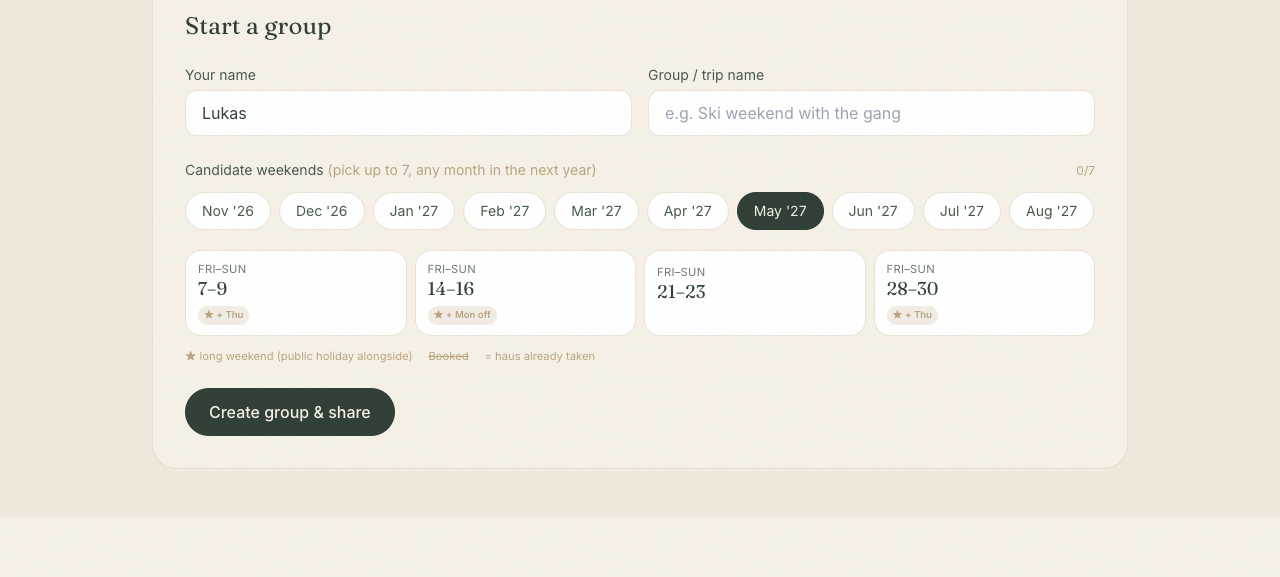
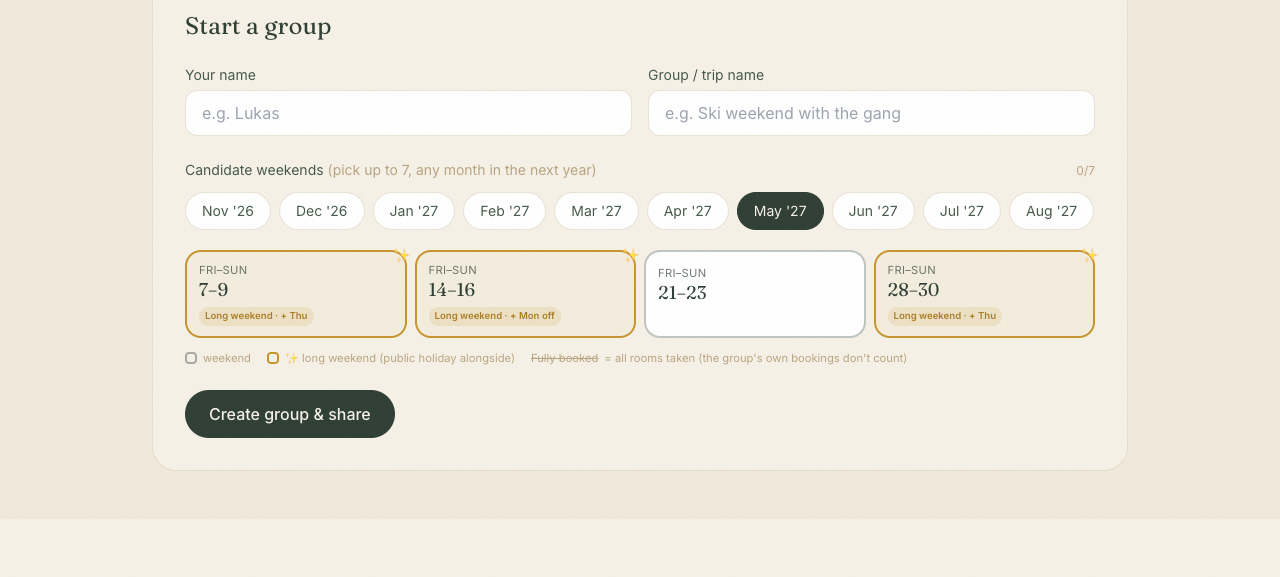
Group booking: whole-haus availability + gold long-weekend frames
Availability (fixes 'everything shows booked'):
- A weekend is only greyed as 'Fully booked' when ALL bookable rooms are
  taken that weekend — not when any single room overlaps.
- Bookings by the group's own people (Lukas, Caroline, Miles, Francis —
  matched by first name in the booking name) are treated as cancellable
  and never count toward the haus being taken.
- Tooltips now show 'N of M rooms free' / who holds the blocking rooms.

Long weekends are now obvious:
- Regular weekends get a green frame; long weekends get a gold frame, a
  ✨ sparkle, and a 'Long weekend · + Mon off' badge.
- Board echoes it: gold badge + a gold top-accent on long-weekend columns.
- Legend updated with green/gold swatches.

diff --git a/src/app/groups/GroupsIndexClient.tsx b/src/app/groups/GroupsIndexClient.tsx
@@ -14,13 +14,15 @@ import {
   groupByMonth,
   MAX_WEEKENDS,
   upcomingWeekends,
-  weekendConflicts,
+  weekendAvailability,
   type WeekendOption,
 } from "@/lib/weekends";
 import { longWeekend } from "@/lib/holidays";
 import type { PublicReservation } from "@/lib/reservations";
+import { rooms } from "@/lib/rooms";
 
 const NAME_KEY = "haus-group-name";
+const TOTAL_ROOMS = rooms.filter((r) => !r.underConstruction).length;
 
 export function GroupsIndexClient() {
   const router = useRouter();
@@ -218,8 +220,8 @@ export function GroupsIndexClient() {
                     const full = !on && picked.length >= MAX_WEEKENDS;
                     const f = formatWeekend(w);
                     const lw = longWeekend(w.start, w.end);
-                    const conflicts = weekendConflicts(w, reservations);
-                    const booked = conflicts.length > 0;
+                    const avail = weekendAvailability(w, reservations, TOTAL_ROOMS);
+                    const booked = avail.fullyBooked;
                     const disabled = full || booked;
                     return (
                       <button
@@ -229,23 +231,37 @@ export function GroupsIndexClient() {
                         disabled={disabled}
                         title={
                           booked
-                            ? `Already booked: ${conflicts
+                            ? `Fully booked — all ${avail.totalRooms} rooms taken: ${avail.blocking
                                 .map((c) => `${c.name} (${c.room})`)
                                 .join(", ")}`
-                            : lw.isLong
-                              ? lw.title
-                              : undefined
+                            : avail.freeRooms < avail.totalRooms
+                              ? `${avail.freeRooms} of ${avail.totalRooms} rooms free`
+                              : lw.isLong
+                                ? lw.title
+                                : undefined
                         }
-                        className={`relative rounded-2xl border px-3 py-2.5 text-left transition ${
-                          on
-                            ? "border-forest bg-forest text-cream"
-                            : booked
-                              ? "cursor-not-allowed border-clay/20 bg-sand/50 text-pine/40"
-                              : full
-                                ? "cursor-not-allowed border-clay/20 bg-white/50 text-pine/40"
-                                : "border-clay/30 bg-white text-forest hover:border-forest/40"
+                        className={`relative rounded-2xl border-2 px-3 py-2.5 text-left transition ${
+                          booked
+                            ? "cursor-not-allowed border-clay/20 bg-sand/50 text-pine/40"
+                            : full
+                              ? "cursor-not-allowed border-clay/20 bg-white/50 text-pine/40"
+                              : on
+                                ? lw.isLong
+                                  ? "border-[#c6952e] bg-forest text-cream ring-2 ring-[#c6952e]/40"
+                                  : "border-forest bg-forest text-cream"
+                                : lw.isLong
+                                  ? "border-[#c6952e] bg-[#c6952e]/5 text-forest hover:bg-[#c6952e]/10"
+                                  : "border-forest/30 bg-white text-forest hover:border-forest"
                         }`}
                       >
+                        {lw.isLong && !booked && (
+                          <span
+                            className="pointer-events-none absolute -right-1.5 -top-1.5 text-sm"
+                            aria-hidden
+                          >
+                            ✨
+                          </span>
+                        )}
                         <span className="block text-[0.7rem] uppercase tracking-wide opacity-70">
                           {f.weekday}
                         </span>
@@ -254,15 +270,15 @@ export function GroupsIndexClient() {
                         </span>
                         {booked ? (
                           <span className="mt-0.5 block text-[0.65rem] font-medium text-[#b5552f]/80 line-through">
-                            Booked
+                            Fully booked
                           </span>
                         ) : lw.isLong ? (
                           <span
                             className={`mt-0.5 inline-block rounded-full px-1.5 py-0.5 text-[0.6rem] font-semibold ${
-                              on ? "bg-cream/20 text-cream" : "bg-clay/20 text-clay"
+                              on ? "bg-[#c6952e] text-cream" : "bg-[#c6952e]/15 text-[#a97e24]"
                             }`}
                           >
-                            ★ {lw.tag}
+                            Long weekend · {lw.tag}
                           </span>
                         ) : (
                           <span className="mt-0.5 block text-[0.65rem] opacity-0">
@@ -292,8 +308,8 @@ export function GroupsIndexClient() {
                         >
                           {f.range} {f.month}
                           {lw.isLong && (
-                            <span title={lw.title} className="text-clay">
-                              ★
+                            <span title={lw.title} aria-hidden>
+                              ✨
                             </span>
                           )}
                           <button
@@ -311,12 +327,19 @@ export function GroupsIndexClient() {
                 </div>
               )}
 
-              <p className="mt-3 flex flex-wrap items-center gap-x-4 gap-y-1 text-[0.7rem] text-clay">
-                <span>
-                  <span className="text-clay">★</span> long weekend (public
-                  holiday alongside)
+              <p className="mt-3 flex flex-wrap items-center gap-x-4 gap-y-1.5 text-[0.7rem] text-clay">
+                <span className="inline-flex items-center gap-1.5">
+                  <span className="inline-block h-3 w-3 rounded border-2 border-forest/40" />
+                  weekend
                 </span>
-                <span className="line-through">Booked</span> = haus already taken
+                <span className="inline-flex items-center gap-1.5">
+                  <span className="inline-block h-3 w-3 rounded border-2 border-[#c6952e]" />
+                  ✨ long weekend (public holiday alongside)
+                </span>
+                <span className="inline-flex items-center gap-1.5">
+                  <span className="line-through">Fully booked</span> = all rooms
+                  taken (the group&apos;s own bookings don&apos;t count)
+                </span>
               </p>
             </div>
 

diff --git a/src/app/groups/[id]/GroupClient.tsx b/src/app/groups/[id]/GroupClient.tsx
@@ -12,13 +12,15 @@ import {
 import {
   formatWeekend,
   monthKeyOf,
-  weekendConflicts,
+  weekendAvailability,
   type Availability,
 } from "@/lib/weekends";
 import { longWeekend } from "@/lib/holidays";
 import type { PublicReservation } from "@/lib/reservations";
+import { rooms } from "@/lib/rooms";
 
 const NAME_KEY = "haus-group-name";
+const TOTAL_ROOMS = rooms.filter((r) => !r.underConstruction).length;
 
 function monthLabelOf(key: string): string {
   return new Intl.DateTimeFormat("en-GB", {
@@ -252,17 +254,20 @@ export function GroupClient({ id }: { id: string }) {
     [stats],
   );
 
-  // Long-weekend + already-booked info per weekend id.
+  // Long-weekend + whole-haus availability per weekend id.
   const weekMeta = useMemo(() => {
     const m = new Map<
       string,
-      { lw: ReturnType<typeof longWeekend>; booked: PublicReservation[] }
+      {
+        lw: ReturnType<typeof longWeekend>;
+        avail: ReturnType<typeof weekendAvailability>;
+      }
     >();
     if (!group) return m;
     for (const w of group.weekends) {
       m.set(w.id, {
         lw: longWeekend(w.start, w.end),
-        booked: weekendConflicts(w, reservations),
+        avail: weekendAvailability(w, reservations, TOTAL_ROOMS),
       });
     }
     return m;
@@ -435,20 +440,26 @@ export function GroupClient({ id }: { id: string }) {
                     const f = formatWeekend(w);
                     const isBest = score > 0 && score === bestScore;
                     const meta = weekMeta.get(w.id);
-                    const booked = (meta?.booked.length ?? 0) > 0;
+                    const booked = meta?.avail.fullyBooked ?? false;
                     return (
                       <th
                         key={w.id}
                         title={
                           booked
-                            ? `Already booked: ${meta!.booked
+                            ? `Fully booked — all ${meta!.avail.totalRooms} rooms taken: ${meta!.avail.blocking
                                 .map((c) => `${c.name} (${c.room})`)
                                 .join(", ")}`
-                            : meta?.lw.isLong
-                              ? meta.lw.title
-                              : undefined
+                            : meta && meta.avail.freeRooms < meta.avail.totalRooms
+                              ? `${meta.avail.freeRooms} of ${meta.avail.totalRooms} rooms free`
+                              : meta?.lw.isLong
+                                ? meta.lw.title
+                                : undefined
                         }
                         className={`min-w-[5.5rem] px-2 py-3 text-center align-bottom ${
+                          !booked && meta?.lw.isLong
+                            ? "border-t-2 border-t-[#c6952e]"
+                            : ""
+                        } ${
                           booked
                             ? "bg-sand/50"
                             : fit === "clear"
@@ -475,11 +486,11 @@ export function GroupClient({ id }: { id: string }) {
                         )}
                         {booked ? (
                           <span className="mt-1 inline-block rounded-full bg-[#b5552f]/15 px-2 py-0.5 text-[0.6rem] font-medium text-[#b5552f]">
-                            Booked
+                            Fully booked
                           </span>
                         ) : meta?.lw.isLong ? (
-                          <span className="mt-1 inline-block rounded-full bg-clay/20 px-2 py-0.5 text-[0.6rem] font-medium text-clay">
-                            ★ {meta.lw.tag}
+                          <span className="mt-1 inline-block rounded-full bg-[#c6952e]/15 px-2 py-0.5 text-[0.6rem] font-medium text-[#a97e24]">
+                            ✨ {meta.lw.tag}
                           </span>
                         ) : null}
                         {isBest && !booked && (

diff --git a/src/lib/weekends.ts b/src/lib/weekends.ts
@@ -83,19 +83,52 @@ export function groupByMonth(weekends: WeekendOption[]): MonthGroup[] {
     });
 }
 
-// Reservations that overlap a weekend (Fri, Sat & Sun nights → checkout Mon).
-export function weekendConflicts(
+// Bookings by these people are the group's own — treat them as cancellable, so
+// they never count as the haus being "taken" for a group weekend. Matched by
+// first name appearing as a word in the booking name (e.g. "Miles, Fifi & Wilda").
+export const CANCELLABLE_NAMES = ["lukas", "caroline", "miles", "francis"];
+
+export function isCancellableBooking(name: string): boolean {
+  const words = name.toLowerCase().split(/[^a-zäöüß]+/i).filter(Boolean);
+  return CANCELLABLE_NAMES.some((n) => words.includes(n));
+}
+
+export type WeekendAvailability = {
+  // True only when every bookable room is taken by a non-cancellable booking.
+  fullyBooked: boolean;
+  // How many rooms are still free (cancellable bookings don't count).
+  freeRooms: number;
+  totalRooms: number;
+  // The bookings that actually block (excludes the group's own, cancellable ones).
+  blocking: PublicReservation[];
+};
+
+// Whole-haus availability for a weekend (Fri, Sat & Sun nights → checkout Mon).
+// A weekend is only "fully booked" when all `totalRooms` are occupied by
+// bookings that aren't the group's own cancellable ones.
+export function weekendAvailability(
   w: WeekendOption,
   reservations: PublicReservation[],
-): PublicReservation[] {
+  totalRooms: number,
+): WeekendAvailability {
   const checkout = (() => {
     const d = new Date(`${w.end}T00:00:00`);
     d.setDate(d.getDate() + 1);
     return iso(d);
   })();
-  return reservations.filter((r) =>
-    rangesOverlap(w.start, checkout, r.checkIn, r.checkOut),
+  const blocking = reservations.filter(
+    (r) =>
+      rangesOverlap(w.start, checkout, r.checkIn, r.checkOut) &&
+      !isCancellableBooking(r.name),
   );
+  const occupiedRooms = new Set(blocking.map((r) => r.room)).size;
+  const freeRooms = Math.max(0, totalRooms - occupiedRooms);
+  return {
+    fullyBooked: totalRooms > 0 && freeRooms === 0,
+    freeRooms,
+    totalRooms,
+    blocking,
+  };
 }
 
 // "Fri–Sun" / "9–11" / "Jan" parts for a weekend label.
